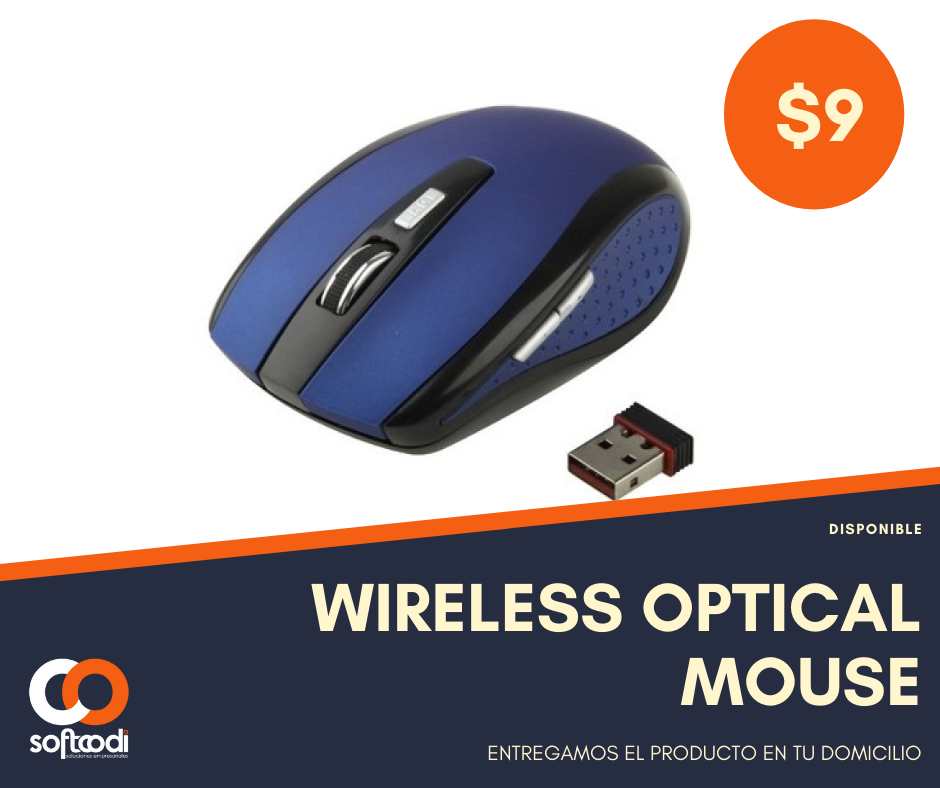
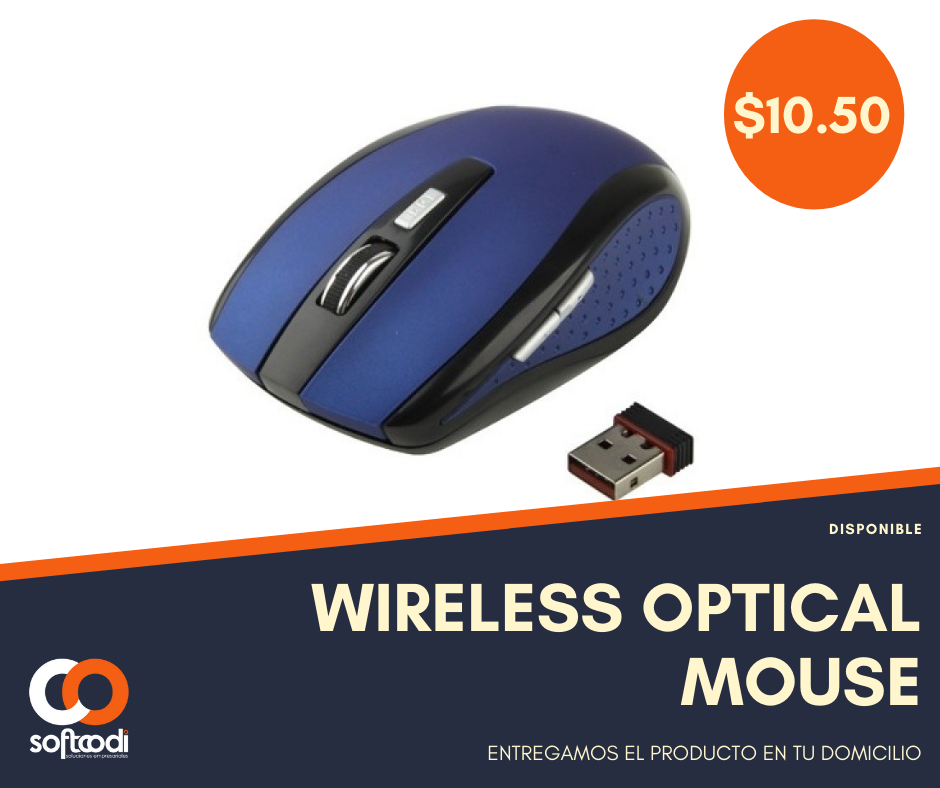
ModulosTerminados

Changed region(s): [[0.7713, 0.0914, 0.9564, 0.1827]]

diff --git a/resources/views/sales/sales_accessories.blade.php b/resources/views/sales/sales_accessories.blade.php
@@ -133,12 +133,45 @@
                 </div>
               </div>
             </div>
+            <div class="col">
+              <div class="card h-100" style="border: 0em">
+               <img src="assets/img/sales_accessories_pcs/RamDDR4.png"/>
+                <div class="card-body">                  
+                  <h5 class="card-title">SPECTRIX D60G DDR4 RGB MEMORY</h5>
+                  <p>Precio: $81</p>
+                  <a target="blanck" href="{{ url('https://api.whatsapp.com/send?phone=+593961119670&text=Hola! podrían ayudarme?') }}">
+                  <button type="button" class="btn btn-outline-success">COMPRAR</button></a>
+                </div>
+              </div>
+            </div>
             
             <div class="col">
               <div class="card h-100" style="border: 0em">
               <img src="assets/img/sales_accessories_pcs/teclado_gamer.png"/>                        
                 <div class="card-body">
                   <h5 class="card-title">TECLADO + MOUSE GAMER</h5>
+                  <p>Precio: $20.50</p>
+                  <a target="blanck" href="{{ url('https://api.whatsapp.com/send?phone=+593961119670&text=Hola! podrían ayudarme?') }}">
+                  <button type="button" class="btn btn-outline-success">COMPRAR</button></a>
+                </div>
+              </div>
+            </div>
+            <div class="col">
+              <div class="card h-100" style="border: 0em">
+              <img src="assets/img/sales_accessories_pcs/Quasad 4 en 1.png"/>                        
+                <div class="card-body">
+                  <h5 class="card-title">QUASAD GAMING BUNDLE 4 EN 1 RGB</h5>
+                  <p>Precio: $58</p>
+                  <a target="blanck" href="{{ url('https://api.whatsapp.com/send?phone=+593961119670&text=Hola! podrían ayudarme?') }}">
+                  <button type="button" class="btn btn-outline-success">COMPRAR</button></a>
+                </div>
+              </div>
+            </div>
+            <div class="col">
+              <div class="card h-100" style="border: 0em">
+              <img src="assets/img/sales_accessories_pcs/SoporteRefrigeracion.png"/>                        
+                <div class="card-body">
+                  <h5 class="card-title">SOPORTE DE REFRIGERACIÓN PARA PORTÁTILES</h5>
                   <p>Precio: $20</p>
                   <a target="blanck" href="{{ url('https://api.whatsapp.com/send?phone=+593961119670&text=Hola! podrían ayudarme?') }}">
                   <button type="button" class="btn btn-outline-success">COMPRAR</button></a>
@@ -150,7 +183,7 @@
               <img src="assets/img/sales_accessories_pcs/Mouse_amarillo.png"/>  
                 <div class="card-body">
                   <h5 class="card-title">AOAS RGB GAMMING MOUSE</h5>
-                  <p>Precio: $6</p>
+                  <p>Precio: $5</p>
                   <a target="blanck" href="{{ url('https://api.whatsapp.com/send?phone=+593961119670&text=Hola! podrían ayudarme?') }}">
                   <button type="button" class="btn btn-outline-success">COMPRAR</button></a>
                 </div>
@@ -161,7 +194,205 @@
               <img src="assets/img/sales_accessories_pcs/Mouse_aZUL.png"/>  
                 <div class="card-body">
                   <h5 class="card-title">WIRELESS OPTICAL MOUSE</h5>
-                  <p>Precio: $9</p>
+                  <p>Precio: $10.50</p>
+                  <a target="blanck" href="{{ url('https://api.whatsapp.com/send?phone=+593961119670&text=Hola! podrían ayudarme?') }}">
+                  <button type="button" class="btn btn-outline-success">COMPRAR</button></a>
+                </div>
+              </div>
+            </div>
+            <div class="col">
+              <div class="card h-100" style="border: 0em">
+              <img src="assets/img/sales_accessories_pcs/Adatausbflashdriver64gb.png"/>  
+                <div class="card-body">
+                  <h5 class="card-title">USB FLASH DRIVER ADATA 64GB</h5>
+                  <p>Precio: $14</p>
+                  <a target="blanck" href="{{ url('https://api.whatsapp.com/send?phone=+593961119670&text=Hola! podrían ayudarme?') }}">
+                  <button type="button" class="btn btn-outline-success">COMPRAR</button></a>
+                </div>
+              </div>
+            </div>
+            <div class="col">
+              <div class="card h-100" style="border: 0em">
+              <img src="assets/img/sales_accessories_pcs/kingston data traveler 32 gb.png"/>  
+                <div class="card-body">
+                  <h5 class="card-title">USB FLASH DRIVER DATATRAVELER 32BG</h5>
+                  <p>Precio: $9.50</p>
+                  <a target="blanck" href="{{ url('https://api.whatsapp.com/send?phone=+593961119670&text=Hola! podrían ayudarme?') }}">
+                  <button type="button" class="btn btn-outline-success">COMPRAR</button></a>
+                </div>
+              </div>
+            </div>
+            <div class="col">
+              <div class="card h-100" style="border: 0em">
+              <img src="assets/img/sales_accessories_pcs/kingston data traveler 128gb.png"/>  
+                <div class="card-body">
+                  <h5 class="card-title">MEMORIA FLASH USB KINGSTON 128BG</h5>
+                  <p>Precio: $22</p>
+                  <a target="blanck" href="{{ url('https://api.whatsapp.com/send?phone=+593961119670&text=Hola! podrían ayudarme?') }}">
+                  <button type="button" class="btn btn-outline-success">COMPRAR</button></a>
+                </div>
+              </div>
+            </div>
+            <div class="col">
+              <div class="card h-100" style="border: 0em">
+              <img src="assets/img/sales_accessories_pcs/USB 7 puertos.png"/>  
+                <div class="card-body">
+                  <h5 class="card-title">DIVISOR DE EXTENSIÓN USB</h5>
+                  <p>Precio: $7</p>
+                  <a target="blanck" href="{{ url('https://api.whatsapp.com/send?phone=+593961119670&text=Hola! podrían ayudarme?') }}">
+                  <button type="button" class="btn btn-outline-success">COMPRAR</button></a>
+                </div>
+              </div>
+            </div>
+            <div class="col">
+              <div class="card h-100" style="border: 0em">
+              <img src="assets/img/sales_accessories_pcs/tp link 840.png"/>  
+                <div class="card-body">
+                  <h5 class="card-title">ROUTER TP-LINK 300MBPS TL-W840N</h5>
+                  <p>Precio: $22</p>
+                  <a target="blanck" href="{{ url('https://api.whatsapp.com/send?phone=+593961119670&text=Hola! podrían ayudarme?') }}">
+                  <button type="button" class="btn btn-outline-success">COMPRAR</button></a>
+                </div>
+              </div>
+            </div>
+            <div class="col">
+              <div class="card h-100" style="border: 0em">
+              <img src="assets/img/sales_accessories_pcs/extensor de wifi.png"/>  
+                <div class="card-body">
+                  <h5 class="card-title">TP-LINK EXTENSOR DE RANGO WIFI 300MBPS</h5>
+                  <p>Precio: $25</p>
+                  <a target="blanck" href="{{ url('https://api.whatsapp.com/send?phone=+593961119670&text=Hola! podrían ayudarme?') }}">
+                  <button type="button" class="btn btn-outline-success">COMPRAR</button></a>
+                </div>
+              </div>
+            </div>
+            <div class="col">
+              <div class="card h-100" style="border: 0em">
+              <img src="assets/img/sales_accessories_pcs/wireless nexxt.png"/>  
+                <div class="card-body">
+                  <h5 class="card-title">LYNX 301 WIRELESS</h5> <br>
+                  <p>Precio: $14</p>
+                  <a target="blanck" href="{{ url('https://api.whatsapp.com/send?phone=+593961119670&text=Hola! podrían ayudarme?') }}">
+                  <button type="button" class="btn btn-outline-success">COMPRAR</button></a>
+                </div>
+              </div>
+            </div>
+            <div class="col">
+              <div class="card h-100" style="border: 0em">
+              <img src="assets/img/sales_accessories_pcs/wireless dual band.png"/>  
+                <div class="card-body">
+                  <h5 class="card-title">DUAL BAND WIRELESS USB ADPTER</h5>
+                  <p>Precio: $10</p>
+                  <a target="blanck" href="{{ url('https://api.whatsapp.com/send?phone=+593961119670&text=Hola! podrían ayudarme?') }}">
+                  <button type="button" class="btn btn-outline-success">COMPRAR</button></a>
+                </div>
+              </div>
+            </div>
+            <div class="col">
+              <div class="card h-100" style="border: 0em">
+              <img src="assets/img/sales_accessories_pcs/Naxos 500 fast ethernet.png"/>  
+                <div class="card-body">
+                  <h5 class="card-title">NAXOS 500 SWITCH ETHERNET</h5>
+                  <p>Precio: $10</p>
+                  <a target="blanck" href="{{ url('https://api.whatsapp.com/send?phone=+593961119670&text=Hola! podrían ayudarme?') }}">
+                  <button type="button" class="btn btn-outline-success">COMPRAR</button></a>
+                </div>
+              </div>
+            </div>
+            <div class="col">
+              <div class="card h-100" style="border: 0em">
+              <img src="assets/img/sales_accessories_pcs/regulador de voltaje.png"/>  
+                <div class="card-body">
+                  <h5 class="card-title">REGULADOR DE VOLTAJE</h5>
+                  <p>Precio: $14</p>
+                  <a target="blanck" href="{{ url('https://api.whatsapp.com/send?phone=+593961119670&text=Hola! podrían ayudarme?') }}">
+                  <button type="button" class="btn btn-outline-success">COMPRAR</button></a>
+                </div>
+              </div>
+            </div>
+            <div class="col">
+              <div class="card h-100" style="border: 0em">
+              <img src="assets/img/sales_accessories_pcs/audifonos xtrike.png"/>  
+                <div class="card-body">
+                  <h5 class="card-title">AUDÍFONOS ESTÉREO GH-709</h5>
+                  <p>Precio: $22</p>
+                  <a target="blanck" href="{{ url('https://api.whatsapp.com/send?phone=+593961119670&text=Hola! podrían ayudarme?') }}">
+                  <button type="button" class="btn btn-outline-success">COMPRAR</button></a>
+                </div>
+              </div>
+            </div>
+            <div class="col">
+              <div class="card h-100" style="border: 0em">
+              <img src="assets/img/sales_accessories_pcs/audifonos k5 pro.png"/>  
+                <div class="card-body">
+                  <h5 class="card-title">AUDÍFONOS GAMER K5 PRO</h5>
+                  <p>Precio: $28</p>
+                  <a target="blanck" href="{{ url('https://api.whatsapp.com/send?phone=+593961119670&text=Hola! podrían ayudarme?') }}">
+                  <button type="button" class="btn btn-outline-success">COMPRAR</button></a>
+                </div>
+              </div>
+            </div>
+            <div class="col">
+              <div class="card h-100" style="border: 0em">
+              <img src="assets/img/sales_accessories_pcs/tipoC hdtv.png"/>  
+                <div class="card-body">
+                  <h5 class="card-title">TYPE C > HDTV CABLE 2M </h5>
+                  <p>Precio: $14</p>
+                  <a target="blanck" href="{{ url('https://api.whatsapp.com/send?phone=+593961119670&text=Hola! podrían ayudarme?') }}">
+                  <button type="button" class="btn btn-outline-success">COMPRAR</button></a>
+                </div>
+              </div>
+            </div>
+            <div class="col">
+              <div class="card h-100" style="border: 0em">
+              <img src="assets/img/sales_accessories_pcs/fast charing - cable.png"/>  
+                <div class="card-body">
+                  <h5 class="card-title">LDNIO LS531 1M TYPE C 2.4A</h5>
+                  <p>Precio: $6</p>
+                  <a target="blanck" href="{{ url('https://api.whatsapp.com/send?phone=+593961119670&text=Hola! podrían ayudarme?') }}">
+                  <button type="button" class="btn btn-outline-success">COMPRAR</button></a>
+                </div>
+              </div>
+            </div>
+            <div class="col">
+              <div class="card h-100" style="border: 0em">
+              <img src="assets/img/sales_accessories_pcs/fast charing.png"/>  
+                <div class="card-body">
+                  <h5 class="card-title">CARGADOR CELULAR LDNIO</h5>
+                  <p>Precio: $12</p>
+                  <a target="blanck" href="{{ url('https://api.whatsapp.com/send?phone=+593961119670&text=Hola! podrían ayudarme?') }}">
+                  <button type="button" class="btn btn-outline-success">COMPRAR</button></a>
+                </div>
+              </div>
+            </div>
+            <div class="col">
+              <div class="card h-100" style="border: 0em">
+              <img src="assets/img/sales_accessories_pcs/fast charing.png"/>  
+                <div class="card-body">
+                  <h5 class="card-title">CARGADOR CELULAR LDNIO</h5>
+                  <p>Precio: $12</p>
+                  <a target="blanck" href="{{ url('https://api.whatsapp.com/send?phone=+593961119670&text=Hola! podrían ayudarme?') }}">
+                  <button type="button" class="btn btn-outline-success">COMPRAR</button></a>
+                </div>
+              </div>
+            </div>
+            <div class="col">
+              <div class="card h-100" style="border: 0em">
+              <img src="assets/img/sales_accessories_pcs/net_ktv_microphone.png"/>  
+                <div class="card-body">
+                  <h5 class="card-title">MICRÓFONO NET KTV</h5><br>
+                  <p>Precio: $7</p>
+                  <a target="blanck" href="{{ url('https://api.whatsapp.com/send?phone=+593961119670&text=Hola! podrían ayudarme?') }}">
+                  <button type="button" class="btn btn-outline-success">COMPRAR</button></a>
+                </div>
+              </div>
+            </div>
+            <div class="col">
+              <div class="card h-100" style="border: 0em">
+              <img src="assets/img/sales_accessories_pcs/Microfono1.png"/>  
+                <div class="card-body">
+                  <h5 class="card-title">CONDENSER MICROPHONE</h5>
+                  <p>Precio: $11</p>
                   <a target="blanck" href="{{ url('https://api.whatsapp.com/send?phone=+593961119670&text=Hola! podrían ayudarme?') }}">
                   <button type="button" class="btn btn-outline-success">COMPRAR</button></a>
                 </div>
@@ -178,17 +409,7 @@
                 </div>
               </div>
             </div>
-            <div class="col">
-              <div class="card h-100" style="border: 0em">
-              <img src="assets/img/sales_accessories_pcs/disco_duro120.png"/>
-                <div class="card-body">                  
-                  <h5 class="card-title">DISCO DURO SÓLIDO DE 120 GB</h5>
-                  <p>Precio: $42</p>
-                  <a target="blanck" href="{{ url('https://api.whatsapp.com/send?phone=+593961119670&text=Hola! podrían ayudarme?') }}">
-                  <button type="button" class="btn btn-outline-success">COMPRAR</button></a>
-                </div>
-              </div>
-            </div>
+            
           </div>            
         </div>
         

diff --git a/resources/views/teamwork/teamsw.blade.php b/resources/views/teamwork/teamsw.blade.php
@@ -140,22 +140,25 @@
                 </div>
                 <br>
                 <div class="container" style="width: 85%">
-                    <p style="margin-top: -2vh"><b>DARIO JAVIER JANETA PACA</b></p>               
+                    <p style="margin-top: -2vh"><b>LUIS ALFONSO YUMISEBA COLCHA</b></p>               
                     <div class="row" >
                         <div class=" col-sm-12 col-md-6 " style="display:flex; text-align: justify;">
                             <p>
                                 Egresado de la carrera de Ingenieria en sistemas de la Escuela Superior Politécnica de Chimborazo. 
                                 Productor audiovisual.
                                 <br><br>
-                                Desarrollador de la página web del Congreso Internacional de Innovación y Emprendimiento INNOVAEC 
-                                2019 el cual se realizó en la Escuela Superior Politécnica de Chimborazo a finales del mes de 
-                                Octubre del 2019.Actualmente administra la aplicación web del festival Kunturñawi y Wawas al Cine.
+                                Me considero una persona con principios y valores como la integridad, el
+                                trabajo en equipo, la lealtad, la responsabilidad, disciplina, la puntualidad,
+                                emprendedor en las áreas designadas, con conocimientos para el área administrativa, contable,
+                                financiera, facturación desarrollando nuevashabilidades y aptitudes día.
+a día.
+
                                 <br/><br/>                    
-                                <b>Contactos: 0961119670 </b>                      
+                                <b>Contactos: 0604127423 </b>                      
                             </p>                 
                         </div>  
                         <div class=" col-sm-12 col-md-6" >                   
-                            <img src="assets/img/teamwork/DarioJaneta1.jpeg" class="rounded  card-img-top img-fluid"  alt="..." style="width: 50%" >                    
+                            <img src="assets/img/teamwork/LuisYumiseba.png" class="rounded  card-img-top img-fluid"  alt="..." style="width: 50%" >                    
                         </div>  
                     </div>
                 </div>
